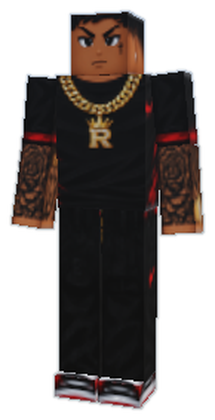
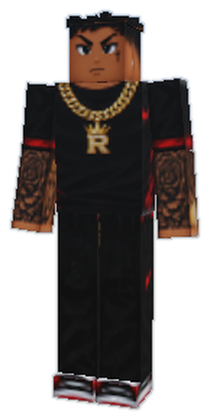
Cabelo 3D de blocos nos personagens
- Cabelo como peça separada, presa ao osso da cabeça: 4 tipos (cacheado volumoso, black,
  curto com lados raspados, dreads com mechas na testa, lados e nuca)
- Com skin pintada, cada bloco usa o desenho do cabelo do TOPO e das COSTAS da cabeça da
  própria skin; sem skin, a cor do cabelo do boneco
- Na primeira pessoa o cabelo do próprio jogador some (não tapa a câmera)
- Bandidos: Rubro e Faixa cacheado, Alvinegro dreads, Tricolor curto ("cabelo_3d" na aparência)
- Motor: buildBlockHair (procgen), CharacterInfo::hair; testes: retratos com PERTO=1 (cabeça e
  nuca de perto) e foto da primeira pessoa de bandido com cabelo; retratos refeitos
- Versão 0.21

Claude-Session: https://claude.ai/code/session_012EZ5KKTFERXFdQTAkopxx1

diff --git a/motor/procgen/Character.cpp b/motor/procgen/Character.cpp
@@ -505,6 +505,96 @@ void buildBlockVest(const CharacterParams& p, MeshBuilder& b) {
     b.color = glm::vec4(1.f);
 }
 
+// Cabelo 3D de blocos (ver Character.h). Cabeça: cubo de 0,15H centrado em 0,915H (frente em +0,07H).
+void buildBlockHair(const CharacterParams& p, MeshBuilder& b, uint32_t seed) {
+    if (p.cabelo3d <= 0) return;
+    const float H = p.height, hy = 0.915f * H, top = hy + 0.075f * H, hx = 0.075f * H, hzF = 0.07f * H, hzB = -0.07f * H;
+    Rng r(seed * 2654435761u + 17u);
+    b.joint = -1;
+    b.xf = glm::mat4(1.f);
+    b.uvTile = glm::vec2(0.f);
+    // pedaço da skin para cada bloco: um quadradinho do TOPO da cabeça (ou do alto das COSTAS)
+    glm::vec4 rects[6];
+    auto escolheUV = [&](bool costas) {
+        if (!p.texturizado) { b.faceRects = nullptr; return; }
+        const glm::vec4 q = costas ? p.molde[SP_Cabeca][1] : p.molde[SP_Cabeca][4];
+        const float w = q.z - q.x, h = (q.w - q.y) * (costas ? 0.45f : 1.f);
+        const float fw = w * 0.3f, fh = h * 0.3f;
+        const float u0 = q.x + r.range(0.f, w - fw), v0 = q.y + r.range(0.f, h - fh);
+        for (glm::vec4& x : rects) x = {u0, v0, u0 + fw, v0 + fh};
+        b.faceRects = rects;
+    };
+    auto cor = [&]() {
+        if (p.texturizado) return glm::vec4(1.f);
+        const float k = r.range(0.85f, 1.12f);
+        return glm::vec4(glm::min(glm::vec3(p.hair) * k, glm::vec3(1.f)), 1.f);
+    };
+    auto bloco = [&](glm::vec3 c, glm::vec3 s, bool costas = false) {
+        escolheUV(costas);
+        b.color = cor();
+        b.boxC(c, s);
+    };
+    const float u = H;  // medidas em fração da altura
+    const int tipo = p.cabelo3d;
+    // base: touca colada na cabeça (alto, laterais de cima e nuca)
+    const float folga = 0.006f * u;
+    const float capY = tipo == 3 ? 0.012f * u : 0.02f * u;
+    bloco({0.f, top + capY * 0.5f - 0.004f * u, -0.004f * u}, {2.f * (hx + folga), capY + 0.008f * u, hzF - hzB + 0.006f * u});
+    if (tipo != 3) {  // curto: lados raspados (degradê); os outros cobrem lados e nuca
+        for (float s : {-1.f, 1.f})
+            bloco({s * (hx + folga * 0.5f), top - 0.025f * u, -0.01f * u}, {folga, 0.05f * u, hzF - hzB - 0.02f * u});
+        bloco({0.f, top - 0.04f * u, hzB - folga * 0.5f}, {2.f * (hx + folga), 0.08f * u, folga}, true);
+    }
+    auto noAlto = [&](float rx, float rz, float lift) {  // ponto no alto da cabeça (rx, rz de -1 a 1)
+        return glm::vec3(rx * hx, top + capY + lift, hzB + (rz * 0.5f + 0.5f) * (hzF - hzB));
+    };
+    if (tipo == 1 || tipo == 2) {  // cacheado / black: cachos (blocos) por cima, dos lados e atrás
+        const int n = tipo == 2 ? 70 : 46;
+        const float esc = tipo == 2 ? 1.35f : 1.f;
+        for (int i = 0; i < n; ++i) {
+            const float s = r.range(0.022f, 0.036f) * esc * u;
+            const int lado = i % 5;
+            glm::vec3 c;
+            if (lado < 3) c = noAlto(r.range(-1.f, 1.f), r.range(-1.f, 0.85f), r.range(-0.004f, 0.012f) * esc * u);
+            else if (lado == 3) {
+                const float sx = r.chance(0.5f) ? 1.f : -1.f;
+                c = {sx * (hx + folga + s * 0.25f), top - r.range(0.f, 0.035f) * u, r.range(hzB, hzF - 0.02f * u)};
+            } else c = {r.range(-hx, hx), top - r.range(0.f, 0.06f) * u, hzB - folga - s * 0.25f};
+            bloco(c, glm::vec3(s, s * r.range(0.8f, 1.1f), s), lado == 4);
+        }
+        // franja: cachos na beira da testa
+        for (int i = 0; i < 7; ++i) {
+            const float s = r.range(0.02f, 0.03f) * esc * u;
+            bloco({-hx + (i + 0.5f) * (2.f * hx / 7.f), top - 0.004f * u, hzF - 0.006f * u}, glm::vec3(s, s * 0.9f, s * 0.8f));
+        }
+        if (tipo == 2)  // black: o volume arredondado por baixo dos cachos
+            bloco({0.f, top + 0.035f * u, -0.01f * u}, {2.f * hx + 0.04f * u, 0.05f * u, hzF - hzB + 0.03f * u});
+    } else if (tipo == 3) {  // curto: cachinhos só no alto
+        for (int i = 0; i < 32; ++i) {
+            const float s = r.range(0.016f, 0.024f) * u;
+            bloco(noAlto(r.range(-0.95f, 0.95f), r.range(-0.95f, 0.9f), r.range(-0.006f, 0.004f) * u), glm::vec3(s));
+        }
+    } else if (tipo == 4) {  // dreads: mechas finas caindo pela testa, lados e nuca + bolinhas no alto
+        for (int i = 0; i < 26; ++i) {
+            const float s = r.range(0.018f, 0.024f) * u;
+            bloco(noAlto(r.range(-0.95f, 0.95f), r.range(-0.95f, 0.9f), 0.f), glm::vec3(s));
+        }
+        auto mecha = [&](glm::vec3 alto, float len, bool costas) {
+            const float g = r.range(0.013f, 0.017f) * u;
+            bloco(alto - glm::vec3(0, len * 0.5f, 0), {g, len, g}, costas);
+        };
+        for (int i = 0; i < 8; ++i)  // franja
+            mecha({-hx + (i + 0.5f) * (2.f * hx / 8.f), top + 0.004f * u, hzF + 0.004f * u}, r.range(0.03f, 0.05f) * u, false);
+        for (float sx : {-1.f, 1.f})
+            for (int i = 0; i < 5; ++i)
+                mecha({sx * (hx + 0.008f * u), top + 0.004f * u, hzB + (i + 0.5f) * ((hzF - hzB) * 0.75f / 5.f)}, r.range(0.05f, 0.08f) * u, false);
+        for (int i = 0; i < 8; ++i)
+            mecha({-hx + (i + 0.5f) * (2.f * hx / 8.f), top + 0.004f * u, hzB - 0.008f * u}, r.range(0.07f, 0.1f) * u, true);
+    }
+    b.faceRects = nullptr;
+    b.color = glm::vec4(1.f);
+}
+
 void buildCharacter(const CharacterParams& p, LoadedModel& out, MeshBuilder& b) {
     const float H = p.height;
     const float s = p.build == 0 ? 0.85f : p.build == 2 ? 1.2f : 1.f;

diff --git a/jogo/Partida.cpp b/jogo/Partida.cpp
@@ -29,11 +29,11 @@ const SkinDef kSkins[2][5] = {
      {"Exército", 0, R"({"camisa":"#5C6B3A","calca":"#4A5530","tenis":"#3B2E22","chapeu":"capacete","cor_chapeu":"#4E5A32","colete":true,"cor_colete":"#6B7A45","manga_comprida":true,"luvas":"#2E2A22"})"},
      {"Choque", 0, R"({"camisa":"#16181C","calca":"#16181C","tenis":"#0E0E10","chapeu":"viseira","cor_chapeu":"#202228","colete":true,"cor_colete":"#2B2E34","manga_comprida":true,"luvas":"#0E0E10"})"},
      {"Especial", 0, R"({"camisa":"#8A7A5C","calca":"#6E6046","tenis":"#3B3024","chapeu":"capacete","cor_chapeu":"#5E5440","colete":true,"cor_colete":"#4A4234","manga_comprida":true,"luvas":"#2A261E"})"}},
-    {{"Rubro", 0, R"({"camisa":"#C8202A","calca":"#18181C","tenis":"#F2F2F2","estampa":"listras","cor2":"#18181C","bermuda":true,"chapeu":"touca","cor_chapeu":"#18181C"})"},
-     {"Alvinegro", 0, R"({"camisa":"#F2F2F2","calca":"#18181C","tenis":"#18181C","estampa":"listras_em_pe","cor2":"#18181C","bermuda":true,"chapeu":"touca","cor_chapeu":"#18181C"})"},
-     {"Tricolor", 0, R"({"camisa":"#1E7A3C","calca":"#F2F2F2","tenis":"#F2F2F2","estampa":"tres_cores","cor2":"#F2F2F2","cor3":"#8E1B2E","bermuda":true,"chapeu":"bone","cor_chapeu":"#F2F2F2"})"},
+    {{"Rubro", 0, R"({"cabelo_3d":"cacheado","camisa":"#C8202A","calca":"#18181C","tenis":"#F2F2F2","estampa":"listras","cor2":"#18181C","bermuda":true,"chapeu":"touca","cor_chapeu":"#18181C"})"},
+     {"Alvinegro", 0, R"({"cabelo_3d":"dreads","camisa":"#F2F2F2","calca":"#18181C","tenis":"#18181C","estampa":"listras_em_pe","cor2":"#18181C","bermuda":true,"chapeu":"touca","cor_chapeu":"#18181C"})"},
+     {"Tricolor", 0, R"({"cabelo_3d":"curto","camisa":"#1E7A3C","calca":"#F2F2F2","tenis":"#F2F2F2","estampa":"tres_cores","cor2":"#F2F2F2","cor3":"#8E1B2E","bermuda":true,"chapeu":"bone","cor_chapeu":"#F2F2F2"})"},
      {"Canarinho", 0, R"({"camisa":"#F5D21E","calca":"#1F4FA8","tenis":"#F2F2F2","estampa":"gola","cor2":"#1E8A3C","bermuda":true,"chapeu":"touca","cor_chapeu":"#1F4FA8"})"},
-     {"Faixa", 0, R"({"camisa":"#18181C","calca":"#18181C","tenis":"#F2F2F2","estampa":"faixa","cor2":"#F2F2F2","bermuda":true,"chapeu":"bone","cor_chapeu":"#18181C"})"}}};
+     {"Faixa", 0, R"({"cabelo_3d":"cacheado","camisa":"#18181C","calca":"#18181C","tenis":"#F2F2F2","estampa":"faixa","cor2":"#F2F2F2","bermuda":true,"chapeu":"bone","cor_chapeu":"#18181C"})"}}};
 
 // Nome do arquivo da skin pintada de cada roupa: shaders/kit/personagens/texturas/<nome>.png (molde em docs/skins).
 // Com o arquivo, o boneco usa a imagem; sem ele, as cores acima.

diff --git a/motor/engine/Project.cpp b/motor/engine/Project.cpp
@@ -301,6 +301,8 @@ CharacterParams characterParams(const json& spec, uint32_t seed) {
     if (auto k = a.find("cor3"); k != a.end() && colorOf(*k, c)) p.cor3 = linear(c);
     p.bermuda = flag(a, "bermuda", false);
     if (auto k = a.find("luvas"); k != a.end() && colorOf(*k, c)) p.luvas = linear(c);
+    if (auto k = a.find("cabelo_3d"); k != a.end() && k->is_string())
+        p.cabelo3d = lookup(k->get<std::string>(), {{"nenhum", 0}, {"cacheado", 1}, {"black", 2}, {"afro", 2}, {"curto", 3}, {"dreads", 4}}, 0);
     if (p.bloco) { p.height = 1.75f; p.build = 1; }  // todos do mesmo tamanho
     return p;
 }
@@ -939,6 +941,19 @@ int createFromSpecJson(Engine* e, const std::string& specJson, std::string* err)
             vest.place(glm::vec3(0.f), 0.f);
             buildBlockVest(p, vest[Mat::Painted]);
             if (attachGearMesh(e, ci, CJ_Chest, vest, "Colete") < 0) e->lastError.clear();
+        }
+        if (p.bloco && p.cabelo3d > 0 && (p.chapeu == 0 || p.texturizado)) {  // cabelo 3D (por cima da cabeça)
+            Geo hair;
+            hair.place(glm::vec3(0.f), 0.f);
+            buildBlockHair(p, hair[Mat::Painted], seed);
+            const int hid = attachGearMesh(e, ci, CJ_Head, hair, "Cabelo");
+            if (hid < 0) e->lastError.clear();
+            else {
+                e->characters[ci].hair = e->objects[hid];
+                if (!skinFile.empty())  // os blocos usam o desenho do cabelo da própria skin
+                    if (GameObject* hg = e->scene.get(e->objects[hid]))
+                        applyMaterialTo(e, *hg, true, json{{"textura", skinFile}, {"metal", 0.f}, {"rugosidade", 0.9f}});
+            }
         }
         if (!skinFile.empty())  // skin pintada: a imagem por cima dos blocos (cada imagem vai uma vez só para a memória)
             if (GameObject* g = e->scene.get(e->objects[id]))

diff --git a/tools/teste_jogo.cpp b/tools/teste_jogo.cpp
@@ -331,10 +331,13 @@ int main(int argc, char** argv) {
         engine_set_play(e, 0);
         engine_set_first_person(e, 0);
         frames(e, 5);
-        jogo_escolhas(e, 1, 3, "ak47", "tt33");
+        jogo_escolhas(e, 1, 0, "ak47", "tt33");  // bandido de cabelo 3D (Rubro): na primeira pessoa o cabelo não aparece
         engine_set_first_person(e, 1);
         engine_set_play(e, 1);
         frames(e, 60);
+        engine_set_camera(e, 0.f, 0.f, 0.f, 0.f, -0.5f, 3.f);  // olhando para cima: se o cabelo aparecesse, taparia aqui
+        frames(e, 5);
+        save(out, "41_bandido_cabelo_fp.png");
         mem("2ª partida");
         engine_destroy(e);
         std::printf(g_fail ? "FALHOU\n" : "OK\n");
@@ -405,6 +408,14 @@ int main(int argc, char** argv) {
                 engine_set_camera(e, 0.f, 0.95f, 0.f, 0.35f, 0.08f, 3.2f);
                 frames(e, 4);
                 save(out, (std::string("previa_") + keys[t][k] + ".png").c_str());
+                if (std::getenv("PERTO")) {  // a cabeça de perto (cabelo 3D), de três quartos e de trás
+                    engine_set_camera(e, 0.f, 1.62f, 0.f, 0.6f, 0.12f, 0.75f);
+                    frames(e, 2);
+                    save(out, (std::string("cabeca_") + keys[t][k] + ".png").c_str());
+                    engine_set_camera(e, 0.f, 1.62f, 0.f, 3.5f, 0.25f, 0.75f);
+                    frames(e, 2);
+                    save(out, (std::string("nuca_") + keys[t][k] + ".png").c_str());
+                }
                 engine_remove_object(e, id);
             }
         engine_destroy(e);

diff --git a/motor/procgen/Character.h b/motor/procgen/Character.h
@@ -47,6 +47,7 @@ struct CharacterParams {
     // Skin pintada (imagem no molde de tools/gerar_molde_personagem.py): só os blocos do corpo, com a imagem
     // por cima. molde[parte][face]: (u0, v0, u1, v1) na imagem; partes na ordem de SkinPart, faces na ordem
     // frente, costas, lado esquerdo (+X), lado direito (-X), topo, base.
+    int cabelo3d = 0;         // cabelo 3D de blocos por cima da cabeça: 0 nenhum, 1 cacheado, 2 black, 3 curto, 4 dreads
     bool texturizado = false;
     glm::vec4 molde[8][6];
 };
@@ -59,6 +60,9 @@ CharacterParams randomCharacter(uint32_t seed);
 void buildCharacter(const CharacterParams& p, LoadedModel& out, MeshBuilder& mesh);
 // Colete do boneco em blocos como peça separada (malha no espaço do personagem; vai preso no osso do peito)
 void buildBlockVest(const CharacterParams& p, MeshBuilder& mesh);
+// Cabelo 3D de blocos (p.cabelo3d), no espaço do personagem; vai preso no osso da cabeça. Com skin pintada
+// (p.texturizado), os blocos usam o desenho do cabelo do TOPO e das COSTAS da cabeça da skin; sem, a cor p.hair.
+void buildBlockHair(const CharacterParams& p, MeshBuilder& mesh, uint32_t seed);
 
 // Armas: origem no ponto de empunhadura, cano para +Z, topo para +Y
 enum WeaponKind { WK_Pistol, WK_Rifle, WK_Shotgun, WK_Sniper, WK_Knife, WK_Bat, WK_Count };

diff --git a/motor/engine/Engine.cpp b/motor/engine/Engine.cpp
@@ -1076,11 +1076,13 @@ void applyFirstPerson(Engine* e) {
     };
     CharacterInfo* pc = e->player >= 0 && e->player < int(e->characters.size()) ? &e->characters[e->player] : nullptr;
     // a arma guardada nas costas/coxa do próprio jogador não aparece na primeira pessoa (os outros veem)
+    // o cabelo 3D também (ficaria na frente da câmera)
     if (pc)
-        if (GameObject* hw = e->scene.get(pc->holster)) {
-            const bool show = !(e->firstPerson && e->playing && e->fpEyeValid);
-            if (hw->active != show) Scene::forEachInSubtree(*hw, [&](GameObject& o) { o.active = show; });
-        }
+        for (Scene::Handle hh : {pc->holster, pc->hair})
+            if (GameObject* hw = e->scene.get(hh)) {
+                const bool show = !(e->firstPerson && e->playing && e->fpEyeValid);
+                if (hw->active != show) Scene::forEachInSubtree(*hw, [&](GameObject& o) { o.active = show; });
+            }
     if (!e->firstPerson || !e->playing || !e->fpEyeValid || !pc) {
         e->camera.fovYDeg = e->baseFov;
         if (e->fpScoped) { showWeapon(pc, true); e->fpScoped = false; }

diff --git a/motor/engine/Engine.h b/motor/engine/Engine.h
@@ -37,6 +37,7 @@ struct Attachment {
 struct CharacterInfo {
     Scene::Handle root;        // GameObject raiz (origem nos pés)
     Scene::Handle holster;     // a arma guardada no corpo (fuzil nas costas, pistola na coxa)
+    Scene::Handle hair;        // cabelo 3D preso na cabeça (some na primeira pessoa do próprio jogador)
     Animator* anim = nullptr;
     float height = 1.75f;
     int clipMap[CC_Count];     // animação do motor (CharClip) -> índice no Animator
